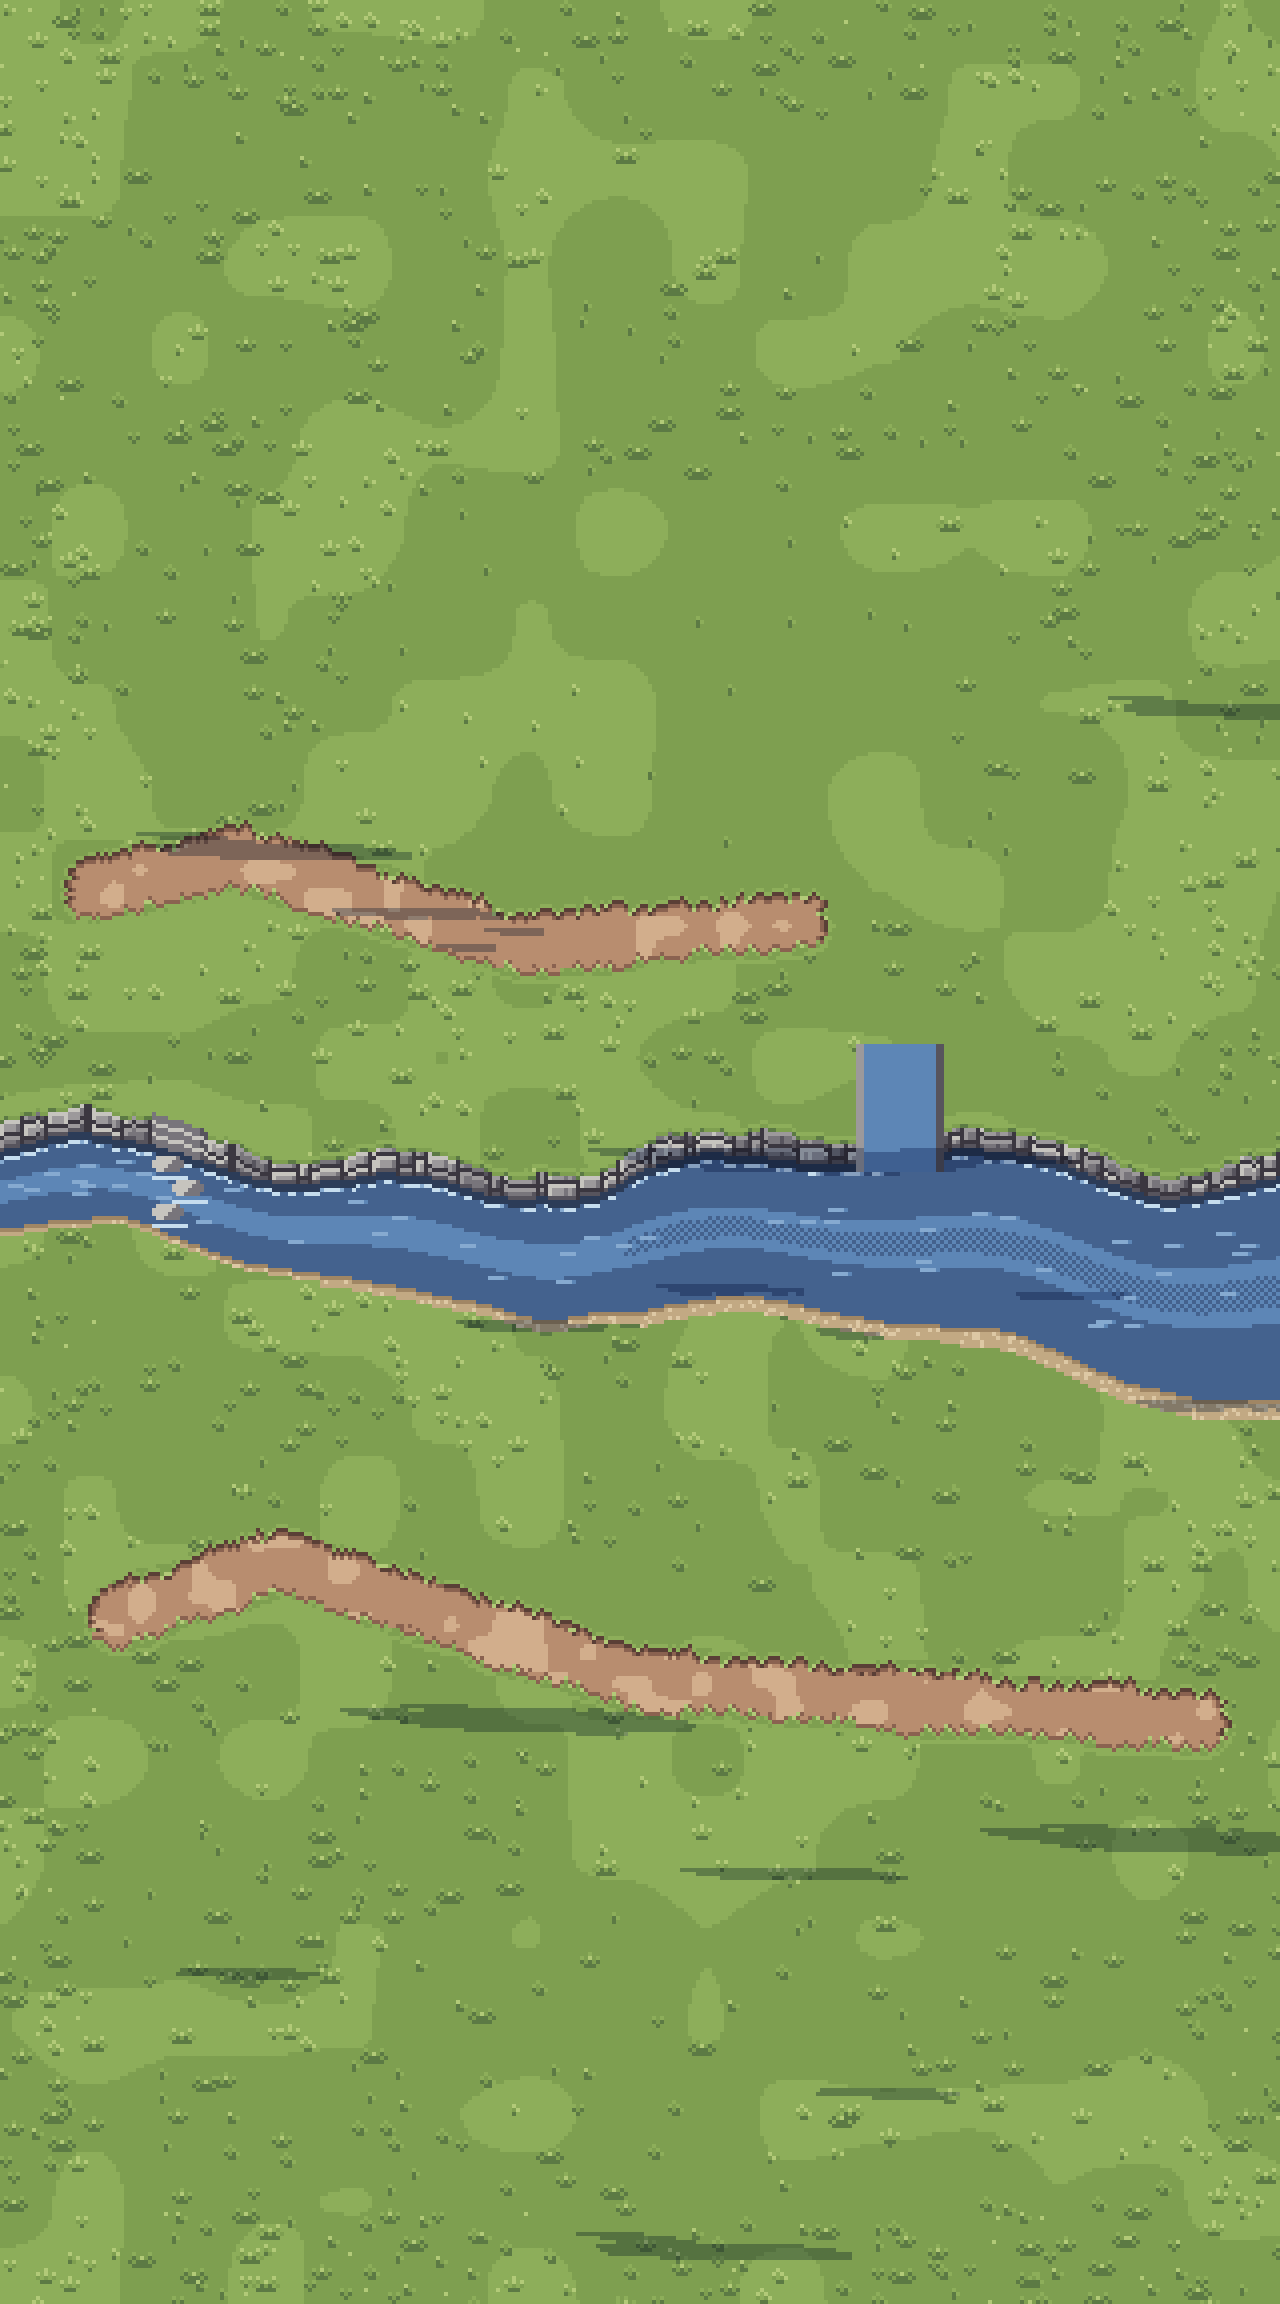
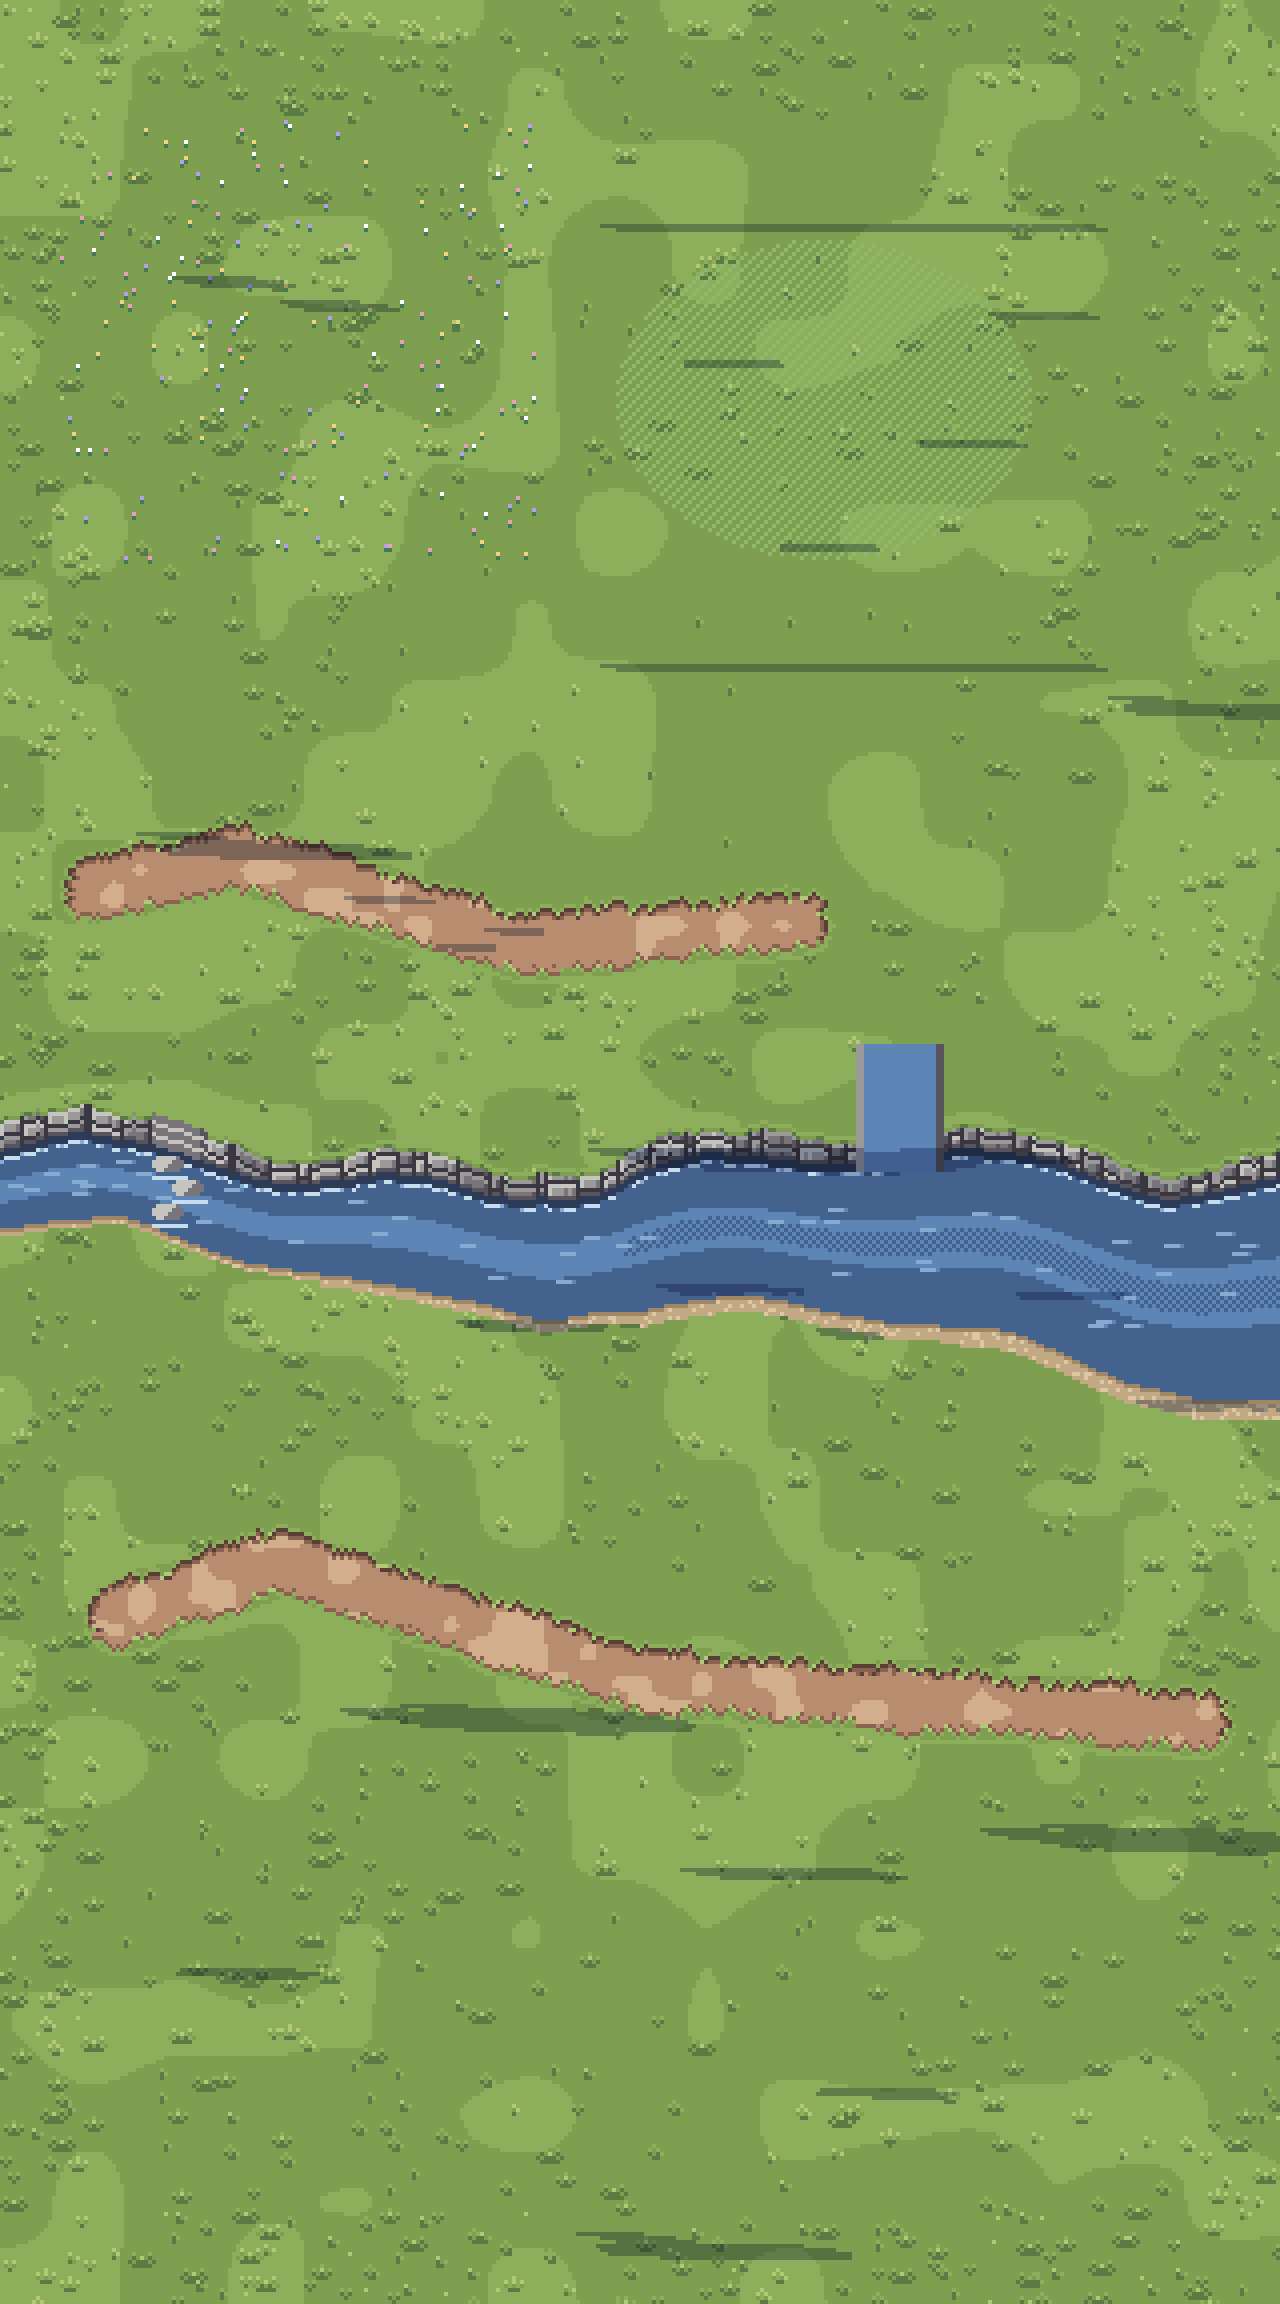
Riverside: a pasture of sheep and beehives in wildflowers on the north meadow
The empty north half of the Riverside gets a fenced pasture grazed short with
four sheep, two beehives among wildflowers, and flour barrels by the mill in
place of the library cart.

New valley props: sheep, beehive.

Claude-Session: https://claude.ai/code/session_01UudrmtYkicLNgZeuSjvjrK

diff --git a/lib/zone-assets.ts b/lib/zone-assets.ts
@@ -16,6 +16,7 @@ import propBasaltColumns from '@/assets/zones/props/basalt_columns.png';
 import propBasaltColumnsLow from '@/assets/zones/props/basalt_columns_low.png';
 import propBathhouse from '@/assets/zones/props/bathhouse.png';
 import propBed from '@/assets/zones/props/bed.png';
+import propBeehive from '@/assets/zones/props/beehive.png';
 import propBellTower from '@/assets/zones/props/bell_tower.png';
 import propBench from '@/assets/zones/props/bench.png';
 import propBikeRack from '@/assets/zones/props/bike_rack.png';
@@ -36,7 +37,6 @@ import propCairn from '@/assets/zones/props/cairn.png';
 import propCamel from '@/assets/zones/props/camel.png';
 import propCampfire from '@/assets/zones/props/campfire.png';
 import propCanalCrane from '@/assets/zones/props/canal_crane.png';
-import propCart from '@/assets/zones/props/cart.png';
 import propCat from '@/assets/zones/props/cat.png';
 import propCloche from '@/assets/zones/props/cloche.png';
 import propClockTower from '@/assets/zones/props/clock_tower.png';
@@ -145,6 +145,8 @@ import propSandstoneArch from '@/assets/zones/props/sandstone_arch.png';
 import propScarecrow from '@/assets/zones/props/scarecrow.png';
 import propSemaphore from '@/assets/zones/props/semaphore.png';
 import propShaduf from '@/assets/zones/props/shaduf.png';
+import propSheep from '@/assets/zones/props/sheep.png';
+import propSheepLeft from '@/assets/zones/props/sheep_left.png';
 import propShelter from '@/assets/zones/props/shelter.png';
 import propShuttle from '@/assets/zones/props/shuttle.png';
 import propSignpost from '@/assets/zones/props/signpost.png';
@@ -249,6 +251,7 @@ export const zoneProps: Record<string, ImageSourcePropType> = {
   basalt_columns_low: propBasaltColumnsLow,
   bathhouse: propBathhouse,
   bed: propBed,
+  beehive: propBeehive,
   bell_tower: propBellTower,
   bench: propBench,
   bike_rack: propBikeRack,
@@ -269,7 +272,6 @@ export const zoneProps: Record<string, ImageSourcePropType> = {
   camel: propCamel,
   campfire: propCampfire,
   canal_crane: propCanalCrane,
-  cart: propCart,
   cat: propCat,
   cloche: propCloche,
   clock_tower: propClockTower,
@@ -378,6 +380,8 @@ export const zoneProps: Record<string, ImageSourcePropType> = {
   scarecrow: propScarecrow,
   semaphore: propSemaphore,
   shaduf: propShaduf,
+  sheep: propSheep,
+  sheep_left: propSheepLeft,
   shelter: propShelter,
   shuttle: propShuttle,
   signpost: propSignpost,

diff --git a/lib/zone-maps.ts b/lib/zone-maps.ts
@@ -269,7 +269,17 @@ export const zoneMaps: Record<ZoneId, ZoneMap> = {
       ['bench', 'bench', 170, 440, 44, 28],
       ['sack-1', 'sack', 119, 220, 14, 13],
       ['sack-2', 'sack', 107, 224, 14, 13],
-      ['cart', 'cart', 80, 202, 36, 26],
+      ['barrel-m', 'barrel', 85, 206, 16, 19],
+      ['pfence-1', 'fence_c', 149, 40, 62, 17],
+      ['pfence-2', 'fence_c', 209, 40, 62, 17],
+      ['pfence-3', 'fence_c', 149, 150, 62, 17],
+      ['pfence-4', 'fence_c', 209, 150, 62, 17],
+      ['sheep-1', 'sheep', 167, 74, 24, 17],
+      ['sheep-2', 'sheep_left', 227, 94, 24, 17],
+      ['sheep-3', 'sheep', 191, 120, 24, 17],
+      ['sheep-4', 'sheep_left', 245, 62, 24, 17],
+      ['hive-1', 'beehive', 40, 40, 22, 30],
+      ['hive-2', 'beehive', 66, 46, 22, 30],
     ],
     walk: [
       '80.',
@@ -281,41 +291,41 @@ export const zoneMaps: Record<ZoneId, ZoneMap> = {
       '80.',
       '80.',
       '80.',
+      '38.14#1.14#13.',
+      '38.14#1.14#13.',
+      '38.14#1.14#13.',
+      '38.14#1.14#13.',
+      '38.14#1.14#13.',
+      '38.14#1.14#13.',
+      '80.',
+      '10.5#65.',
+      '10.5#2.5#58.',
+      '17.5#40.5#13.',
+      '62.5#13.',
+      '80.',
+      '42.5#33.',
+      '42.5#33.',
+      '80.',
+      '80.',
+      '80.',
+      '57.5#18.',
+      '57.5#18.',
       '80.',
       '80.',
       '80.',
       '80.',
+      '48.5#27.',
+      '48.5#27.',
+      '48.5#27.',
       '80.',
-      '80.',
-      '80.',
-      '80.',
-      '80.',
-      '80.',
-      '80.',
-      '80.',
-      '80.',
-      '80.',
-      '80.',
-      '80.',
-      '80.',
-      '80.',
-      '80.',
-      '80.',
-      '80.',
-      '80.',
-      '80.',
-      '80.',
-      '80.',
-      '80.',
-      '80.',
-      '80.',
-      '80.',
-      '80.',
-      '80.',
-      '80.',
+      '38.14#1.14#13.',
+      '38.14#1.14#13.',
+      '38.14#1.14#13.',
+      '38.14#1.14#13.',
+      '38.14#1.14#13.',
+      '38.14#1.23#4.',
       '66.10#4.',
       '66.10#4.',
-      '66.10#4.',
       '80.',
       '80.',
       '80.',
@@ -326,9 +336,9 @@ export const zoneMaps: Record<ZoneId, ZoneMap> = {
       '4.13#63.',
       '4.13#63.',
       '80.',
-      '80.',
-      '20.9#51.',
-      '20.9#1.3#47.',
+      '22.3#55.',
+      '22.3#55.',
+      '22.3#5.3#47.',
       '27.6#47.',
       '27.6#47.',
       '27.3#50.',

diff --git a/scripts/art/valley_props.py b/scripts/art/valley_props.py
@@ -513,10 +513,49 @@ def pumpkins() -> Canvas:
         cv.set(px, int(py - r * 0.8), '#5A7A3A')
     return cv
 
+def sheep(facing: int = 1) -> Canvas:
+    """A grazing sheep, 26 x 20: a woolly cloud body lit on the upper left, a dark face
+    lowered to the grass, thin dark legs."""
+    w, h = 26, 20
+    cv = Canvas(w, h, pad=PAD)
+    for (x, y) in oval(12, 9, 10, 6) | oval(8, 7, 5, 4) | oval(16, 7, 5, 4):
+        k = (x - 2) / 20 + (y - 2) / 12
+        c = '#FFFFFF' if k < 0.6 else '#EAE6DC' if k < 1.0 else '#C8C2B4'
+        if (x * 3 + y * 5) % 7 == 0:
+            c = '#D8D2C4' if k < 1 else '#B0A898'  # curls
+        cv.set(x if facing > 0 else w - 1 - x, y, c)
+    head = oval(22, 12, 3, 3.5)
+    for (x, y) in head:
+        cv.set(x if facing > 0 else w - 1 - x, y, '#3A3236' if x < 23 else '#2A2226')
+    for lx in (6, 9, 15, 18):
+        for y in range(14, 19):
+            cv.set(lx if facing > 0 else w - 1 - lx, y, '#2A2226')
+    return cv
+
+
+def beehive() -> Canvas:
+    """A white wooden beehive on a stand, 22 x 30: stacked boxes, a little roof, bees."""
+    w, h = 22, 30
+    cv = Canvas(w, h, pad=PAD)
+    for y in range(4, 8):  # roof
+        for x in range(1, w - 1):
+            cv.set(x, y, SLATE[3] if x < w // 2 else SLATE[2])
+    for k in range(2):
+        for y in range(8 + k * 8, 16 + k * 8):
+            for x in range(3, w - 3):
+                cv.set(x, y, '#F2EEE6' if x < 6 else '#E2DCD0' if x < w - 6 else '#C8C2B4')
+        cv.hline(3, 8 + k * 8, w - 6, '#B0A898')
+    cv.hline(8, 22, 6, '#3A3236')  # the entrance
+    for x in (5, w - 6):
+        cv.vline(x, 24, 5, WOOD[2])
+    for (bx, by) in ((2, 2), (17, 1), (12, 0)):
+        cv.set(bx, by, GOLD[4]); cv.set(bx + 1, by, '#2A2226')
+    return cv
+
 def props() -> dict[str, Canvas]:
     return {
         'barn': barn(), 'haystack': haystack(), 'scarecrow': scarecrow(), 'windmill': windmill(),
-        'pumpkins': pumpkins(),
+        'pumpkins': pumpkins(), 'sheep': sheep(1), 'sheep_left': sheep(-1), 'beehive': beehive(),
         'willow': willow(), 'reeds': reeds(), 'water_mill': water_mill(), 'heron': heron(), 'lily_pads': lily_pads(),
         'mossy_log': mossy_log(), 'mushroom_ring': mushroom_ring(), 'hollow_tree': hollow_tree(), 'fern': fern(),
         'forest_bench': forest_bench(), 'bandstand': bandstand(), 'ice_cream_cart': ice_cream_cart(),

diff --git a/scripts/art/zones.py b/scripts/art/zones.py
@@ -2319,6 +2319,13 @@ def riverside(frame: int = 0):
     path = worlds.thick([(24, 222), (60, 214), (130, 236), (200, 230)], 9, seed=21)  # a lane to the mill (the garden has no path at this edge)
     path |= worlds.thick([(30, 404), (70, 390), (160, 420), (W - 20, 430)], 9, seed=22)  # the south bank walk
     paint_road(cv, {(x, y) for (x, y) in path if (x, y) not in river and (x, y) not in bluff})
+    for i in range(160):  # wildflowers on the north meadow, thickest by the hives
+        x, y = 14 + int(noise2(i, 0, 530) * 120), 30 + int(noise2(i, 1, 530) * 110)
+        col = ('#F2D27A', '#E8A0BC', '#FFFFFF', '#B8A0E8')[i % 4]
+        cv.set(x, y, col); cv.set(x, y + 1, '#447A50')
+    for (x, y) in oval(206, 100, 52, 40):  # the pasture grazed short
+        if (x + y) % 3 == 0:
+            cv.set(x, y, '#8EB86A')
     objects = [
         ('mill', 'water_mill', 140, top[220] - 96 + 6), ('willow-1', 'willow', 70, 330), ('willow-2', 'willow', 230, 360),
         ('reeds-1', 'reeds', 110, int(centre(120) + half(120)) - 24), ('reeds-2', 'reeds', 280, int(centre(290) + half(290)) - 26),
@@ -2326,7 +2333,12 @@ def riverside(frame: int = 0):
         ('lilies-1', 'lily_pads', 250, int(centre(265)) - 6), ('lilies-2', 'lily_pads', 120, int(centre(135)) + 2),
         ('tree-1', 'tree', 10, 120), ('tree-2', 'tree_small', 260, 110), ('bush-1', 'bush', 40, 470),
         ('bush-2', 'bush', 200, 500), ('tree-3', 'tree_autumn', 120, 470), ('bench', 'bench', 170, 440),
-        ('sack-1', 'sack', 120, 220), ('sack-2', 'sack', 108, 224), ('cart', 'cart', 80, 200),
+        ('sack-1', 'sack', 120, 220), ('sack-2', 'sack', 108, 224), ('barrel-m', 'barrel', 86, 206),
+        # a pasture on the north meadow: sheep grazing inside a fence, beehives by the flowers
+        ('pfence-1', 'fence_c', 150, 40), ('pfence-2', 'fence_c', 210, 40), ('pfence-3', 'fence_c', 150, 150),
+        ('pfence-4', 'fence_c', 210, 150),
+        ('sheep-1', 'sheep', 166, 72), ('sheep-2', 'sheep_left', 226, 92), ('sheep-3', 'sheep', 190, 118),
+        ('sheep-4', 'sheep_left', 244, 60), ('hive-1', 'beehive', 40, 40), ('hive-2', 'beehive', 66, 46),
     ]
     stones = {(x, y) for x in range(38, 52) for y in range(int(centre(46) - half(46)) - 2, int(centre(46) + half(46)) + 3)}
     steps = {(x, y) for (x, y) in bluff if 38 <= x < 52}  # steps cut down the bluff to the stones
